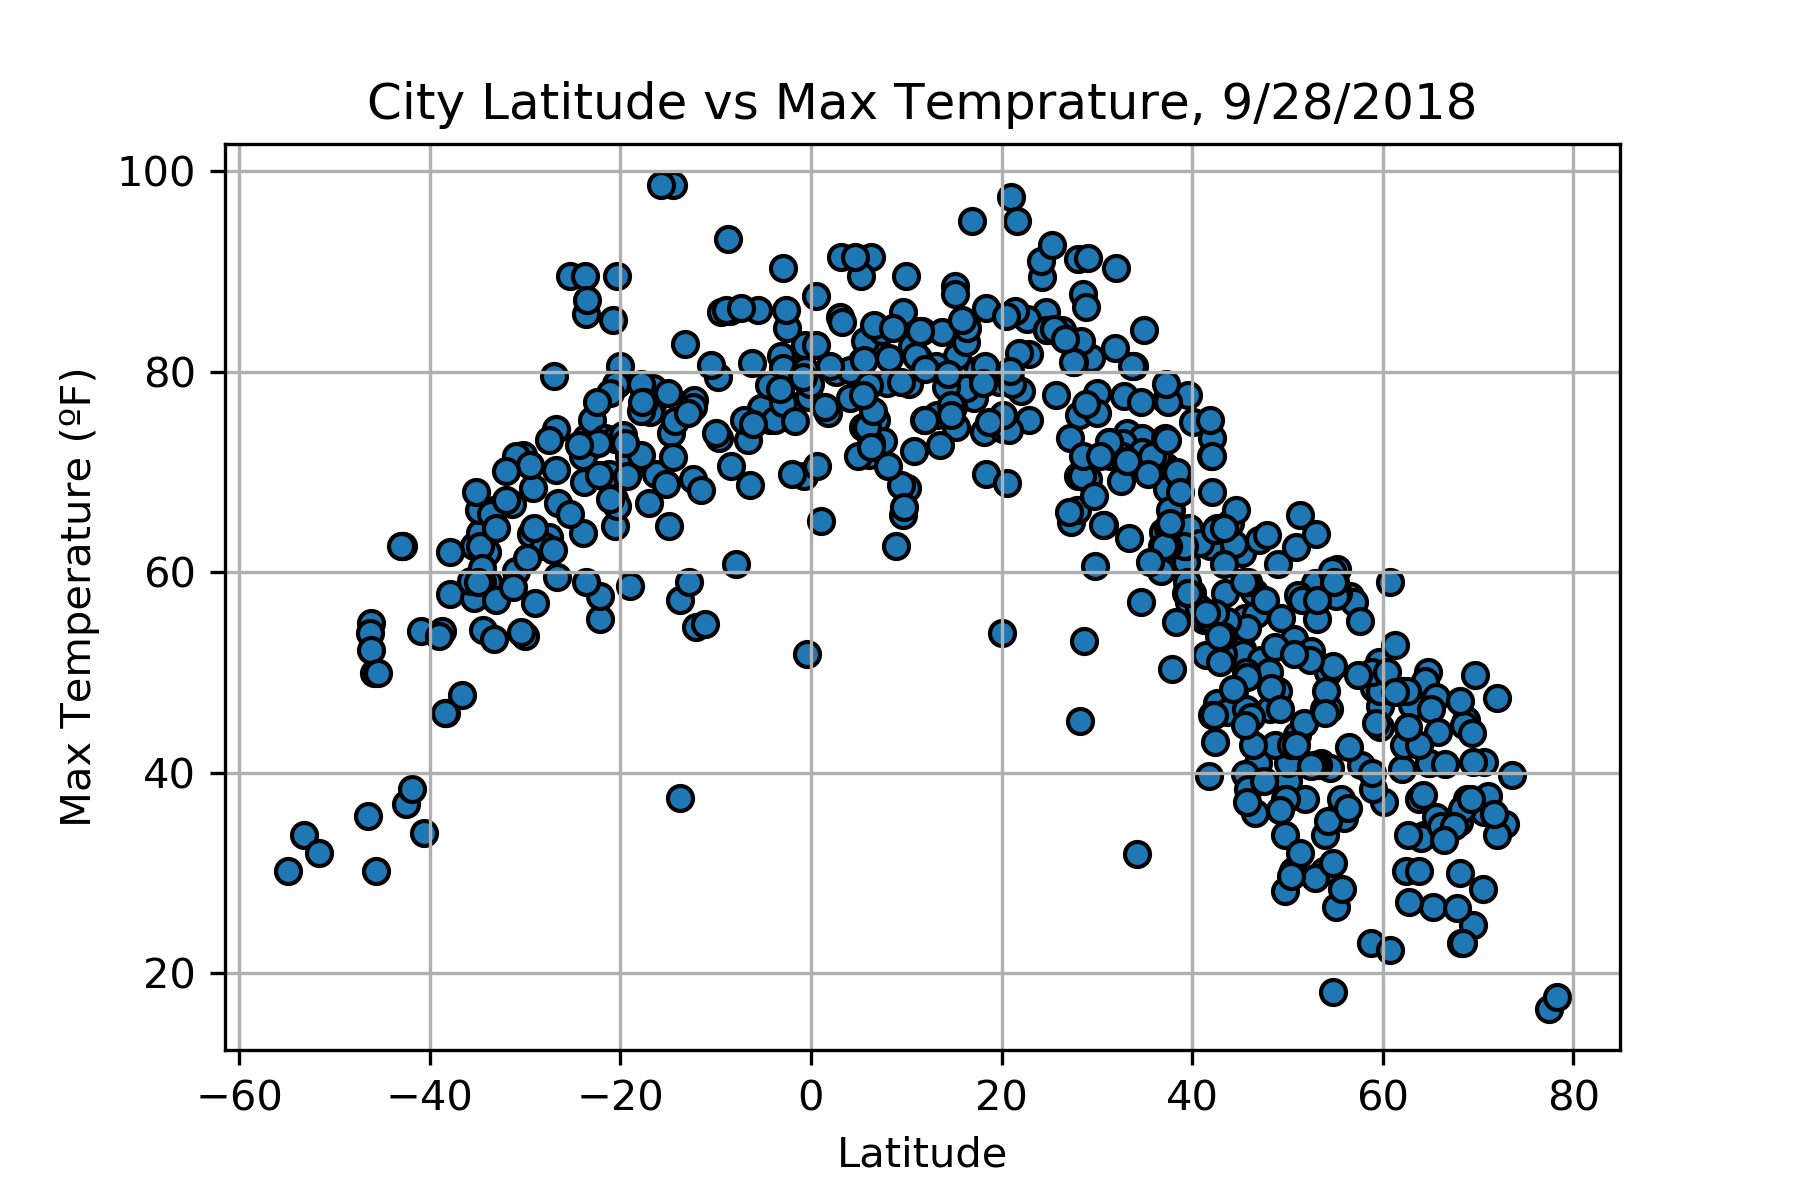
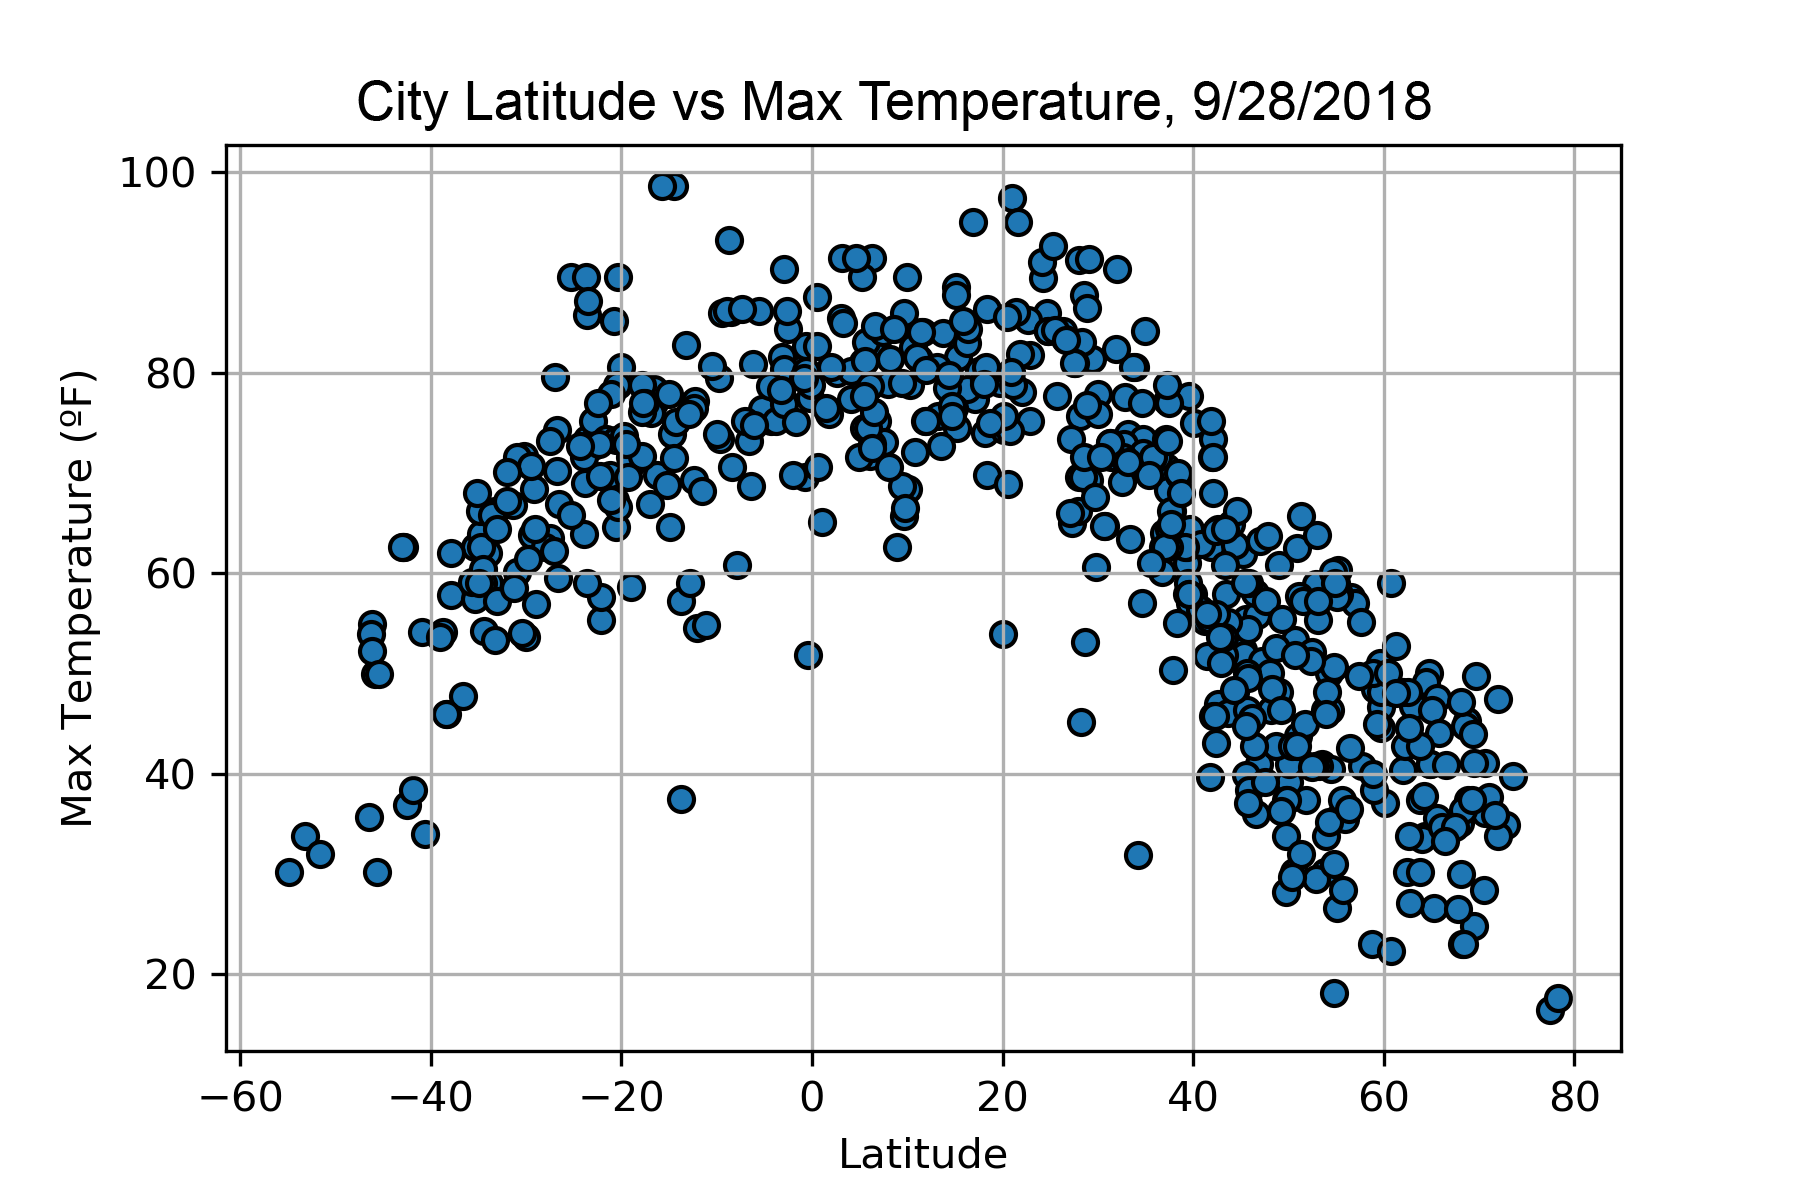
Visualization pages added, figure captions moved to Visualization Pages, typo on Temperature Scatter.png fixed

diff --git a/comparison.html b/comparison.html
@@ -53,7 +53,7 @@
 <div class='container-fluid'>
   <div class='row'>
     <div class='col-md-12'>
-      <p>These graphs will help us determine if certain weather conditions correlate to different lattitudes.  The lattitude of the recording is shown as the X axis, while four different metrics on the Y axis.
+      <p>These graphs will help us determine if certain weather conditions correlate to different lattitudes.  The lattitude of the recording is shown as the X axis, while four different metrics are displayed on the Y axis.
 
       </p>
     </div>
@@ -64,23 +64,16 @@
         Temperature
       </h2>
       <figure>
-        <img src="figures/Temperature_Scatter.png" class='img-responsive'>
+        <a href="Vis1.html"><img src="figures/Temperature_Scatter.png" class='img-responsive'></a>
       </figure>
-      <figcaption>
-        This graph shows a curve toward higher temperature near the equator (lattitude 0°). The data was collected at the end of summer in the northern hemisphere, which might explain why temperatures are still higher from 0 to 20° lattitude, just north of the equator, instead of directly at the equator.
-      </figcaption>
     </div>
     <div class='col-md-6'>
       <h2 class='text-center comparison-header'>
           Wind Speed
       </h2>
       <figure>
-        <img src="figures/Wind_Speed_Scatter.png" class='img-responsive'>
+          <a href="Vis3.html"><img src="figures/Wind_Speed_Scatter.png" class='img-responsive'></a>
       </figure>
-      <figcaption>
-        The few data points available at lattitudes above 60° show a loose tendency to higher wind speed.  Due to the scarcity of data south of -60° lattitude, 
-        it's difficult to tell if these conditions occur near both poles or is unique to the arctic.
-      </figcaption>
     </div>
   </div>
   <div class='row'>
@@ -89,22 +82,16 @@
           Clouds
       </h2>
       <figure>
-          <img src="figures/Cloudiness_Scatter.png" class='img-responsive'>
+          <a href="Vis2.html"><img src="figures/Cloudiness_Scatter.png" class='img-responsive'></a>
       </figure>
-      <figcaption>
-        Cloud conditions appear to be fairly evenly distributed among different lattitudes.  Cloud conditions do not appear to be affected by lattitude.
-      </figcaption>
     </div>
     <div class='col-md-6'>
       <h2 class='text-center comparison-header'>
           Humidity
       </h2>
       <figure>
-        <img src="figures/Humidity_Scatter.png" class='img-responsive'>
+          <a href="Vis4.html"><img src="figures/Humidity_Scatter.png" class='img-responsive'></a>
       </figure>
-      <figcaption>
-        Low humidity measurements are more common at certain lattitudes, such as -20° and 40°.
-      </figcaption>
     </div>
   </div>
   <div class='row'>
@@ -131,3 +118,5 @@
     </div>
   </div>
 </div>
+</body>
+</html>

diff --git a/Vis3.html b/Vis3.html
@@ -13,9 +13,9 @@
     <meta charset="UTF-8">
     <meta name="viewport" content="width=device-width, initial-scale=1.0">
     <meta http-equiv="X-UA-Compatible" content="ie=edge">
-    <title>Temperature - Weather Data</title>
+    <title>Wind - Weather Data</title>
 </head>
-  <!--Nav Bar (for Vis1.html)-->
+  <!--Nav Bar (for Vis3.html)-->
   <nav class="navbar navbar-default">
     <div class="container-fluid">
       <!-- Brand and toggle get grouped for better mobile display -->
@@ -39,9 +39,9 @@
             <li class="dropdown">
               <a href="#" class="dropdown-toggle" data-toggle="dropdown" role="button" aria-haspopup="true" aria-expanded="false"><span class="glyphicon glyphicon-eye-open"></span> Plots<span class="caret"></span></a>
               <ul class="dropdown-menu">
-                <li><a class='current'>Temperature</a></li>
+                <li><a href='Vis1.html'>Temperature</a></li>
                 <li><a href="Vis2.html">Cloud Cover</a></li>
-                <li><a href="Vis3.html">Wind</a></li>
+                <li><a>Wind</a></li>
                 <li><a href="Vis4.html">Humidity</a></li>
               </ul>
             </li>
@@ -54,14 +54,16 @@
   <div class='row'>
     <div class='col-md-6 col-md-offset-3'>
       <figure>
-        <img src='figures/Temperature_Scatter.png' class='img-responsive'>
+        <img src='figures/Wind_Speed_Scatter.png' class='img-responsive'>
       </figure>
       <figcaption>
         <p class='text-center'>
-            This graph shows a curve toward higher temperature near the equator (lattitude 0°). The data was collected at the end of summer in the northern hemisphere, which might explain why temperatures are still higher from 0 to 20° lattitude, just north of the equator, instead of directly at the equator.        </p>
-      </figcaption>
+            The few data points available at lattitudes above 60° show a loose tendency to higher wind speed.  Due to the scarcity of data south of -60° lattitude, 
+            it's difficult to tell if these conditions occur near both poles or is unique to the arctic region.
+        </p>
     </div>
   </div>
 </div>
 </body>
 </html>
+

diff --git a/Vis4.html b/Vis4.html
@@ -13,9 +13,9 @@
     <meta charset="UTF-8">
     <meta name="viewport" content="width=device-width, initial-scale=1.0">
     <meta http-equiv="X-UA-Compatible" content="ie=edge">
-    <title>Temperature - Weather Data</title>
+    <title>Wind - Weather Data</title>
 </head>
-  <!--Nav Bar (for Vis1.html)-->
+  <!--Nav Bar (for Vis4.html)-->
   <nav class="navbar navbar-default">
     <div class="container-fluid">
       <!-- Brand and toggle get grouped for better mobile display -->
@@ -39,10 +39,10 @@
             <li class="dropdown">
               <a href="#" class="dropdown-toggle" data-toggle="dropdown" role="button" aria-haspopup="true" aria-expanded="false"><span class="glyphicon glyphicon-eye-open"></span> Plots<span class="caret"></span></a>
               <ul class="dropdown-menu">
-                <li><a class='current'>Temperature</a></li>
+                <li><a href='Vis1.html'>Temperature</a></li>
                 <li><a href="Vis2.html">Cloud Cover</a></li>
                 <li><a href="Vis3.html">Wind</a></li>
-                <li><a href="Vis4.html">Humidity</a></li>
+                <li><a>Humidity</a></li>
               </ul>
             </li>
           </ul>
@@ -54,12 +54,12 @@
   <div class='row'>
     <div class='col-md-6 col-md-offset-3'>
       <figure>
-        <img src='figures/Temperature_Scatter.png' class='img-responsive'>
+        <img src='figures/Humidity_Scatter.png' class='img-responsive'>
       </figure>
       <figcaption>
         <p class='text-center'>
-            This graph shows a curve toward higher temperature near the equator (lattitude 0°). The data was collected at the end of summer in the northern hemisphere, which might explain why temperatures are still higher from 0 to 20° lattitude, just north of the equator, instead of directly at the equator.        </p>
-      </figcaption>
+            Low humidity measurements are more common at certain lattitudes, such as -20° and 40°.  This may be because equatorial regions (i.e. near 0° latitude), such as Central America and Southeast Asia, feature a high proportion of coastline.
+        </p>
     </div>
   </div>
 </div>

diff --git a/Vis2.html b/Vis2.html
@@ -13,9 +13,9 @@
     <meta charset="UTF-8">
     <meta name="viewport" content="width=device-width, initial-scale=1.0">
     <meta http-equiv="X-UA-Compatible" content="ie=edge">
-    <title>Temperature - Weather Data</title>
+    <title>Cloud Cover - Weather Data</title>
 </head>
-  <!--Nav Bar (for Vis1.html)-->
+  <!--Nav Bar (for Vis2.html)-->
   <nav class="navbar navbar-default">
     <div class="container-fluid">
       <!-- Brand and toggle get grouped for better mobile display -->
@@ -39,8 +39,8 @@
             <li class="dropdown">
               <a href="#" class="dropdown-toggle" data-toggle="dropdown" role="button" aria-haspopup="true" aria-expanded="false"><span class="glyphicon glyphicon-eye-open"></span> Plots<span class="caret"></span></a>
               <ul class="dropdown-menu">
-                <li><a class='current'>Temperature</a></li>
-                <li><a href="Vis2.html">Cloud Cover</a></li>
+                <li><a href="Vis1.html">Temperature</a></li>
+                <li><a class='current'>Cloud Cover</a></li>
                 <li><a href="Vis3.html">Wind</a></li>
                 <li><a href="Vis4.html">Humidity</a></li>
               </ul>
@@ -54,11 +54,12 @@
   <div class='row'>
     <div class='col-md-6 col-md-offset-3'>
       <figure>
-        <img src='figures/Temperature_Scatter.png' class='img-responsive'>
+        <img src='figures/Cloudiness_Scatter.png' class='img-responsive'>
       </figure>
       <figcaption>
         <p class='text-center'>
-            This graph shows a curve toward higher temperature near the equator (lattitude 0°). The data was collected at the end of summer in the northern hemisphere, which might explain why temperatures are still higher from 0 to 20° lattitude, just north of the equator, instead of directly at the equator.        </p>
+            Cloud conditions appear to be fairly evenly distributed among different lattitudes.  Cloud conditions do not appear to be affected by lattitude.
+        </p>
       </figcaption>
     </div>
   </div>

diff --git a/index.html b/index.html
@@ -69,7 +69,7 @@
   <div class='row'>
     <div class='col-md-12'>
       <figure><img src="Seasons.svg" alt='Earth receiving sunlight' class="fig_center"></figure>
-      <figcaption class='text_center'>Diagram of earth and its poles receiving sunlight.  <br>
+      <figcaption class='text-center'>Diagram of earth and its poles receiving sunlight.  <br>
       <span class='citation'>source: <a href="https://en.wikipedia.org/wiki/File:Seasons.svg">Rhcastilhos for wikipedia</a></span>
       </figcaption>
     </div>
@@ -78,7 +78,7 @@
     <div class='col-md-12'>
       <p>It follows that with different amounts of sunlight, different lattitudes would have different atmospheric conditions.
       The most obvious difference is temperature.  Are there other differences?  In an earlier assignment, U of A Data Bootcamp students
-      used public weather data to compare weather observations at different lattitudes.  The results of those comparisons are explored
+      used public weather data from <a href="https://openweathermap.org/api">Open Weather Map API</a> to compare weather observations at different lattitudes.  The results of those comparisons are explored
       in this site.</p>
     </div>
   </div>
